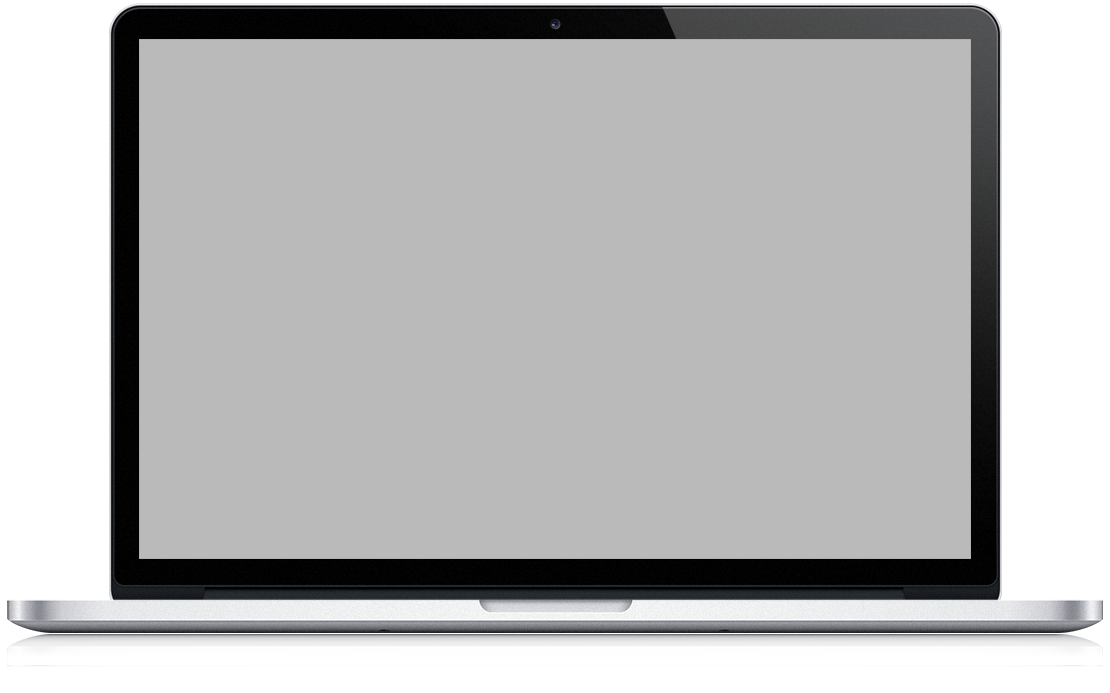
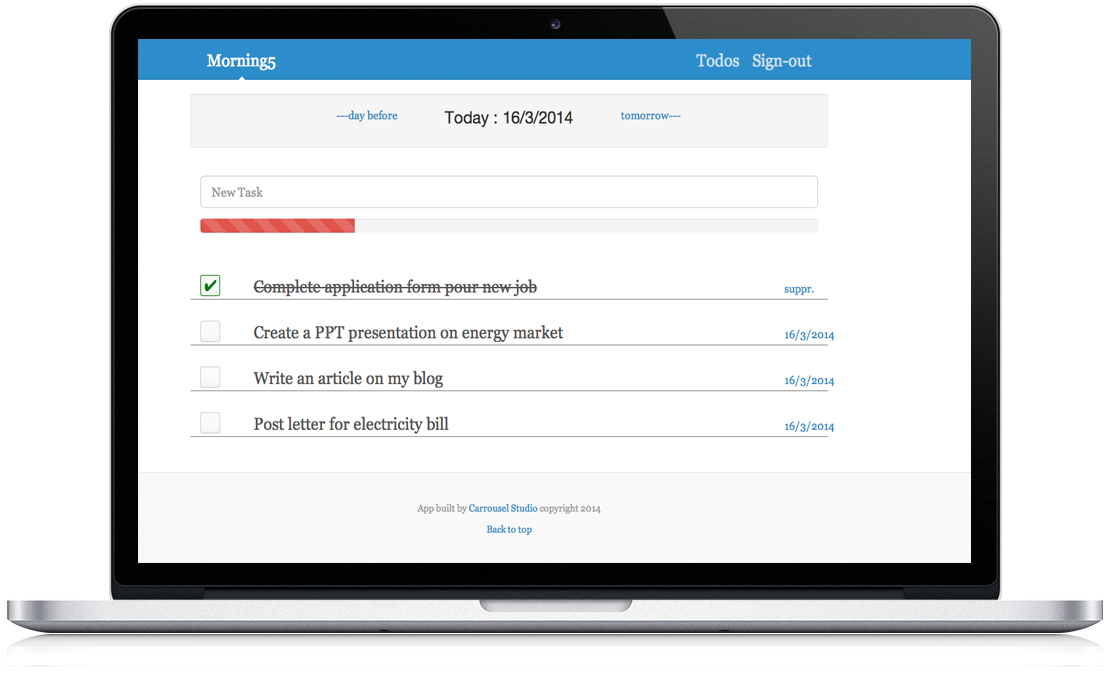
Dates fonctionnels

diff --git a/client/views/accueilTasks.js b/client/views/accueilTasks.js
@@ -4,27 +4,38 @@ var activateInput = function (input) {
   input.select();
 }
 Template.accueilTasks.helpers({
-	tasks: function() {
-		return Tasks.find();
-		
-  },
+	
 	editing:  function () {
   return Session.equals('editing_itemname', this._id);
-},
+  },
+  daybefore:  function () {
+   var yesterday = Session.get('previousDate');
+   
+  return yesterday;  
 
+ 
+  },
+  dayafter:  function () {
+  var tomorrow = Session.get('nextDate');
+   
+  return tomorrow;  
+  
+  
+  },
 	
 	
 	
 	today: function() {
-		var currentDate = new Date();
-		var currentYear = currentDate.getFullYear();
-		var currentMonth = currentDate.getMonth()+1;
-		var currentDay = currentDate.getDate();
-		return currentDay + '/' + currentMonth + '/' + currentYear;
+    
+	
+    return Session.get('viewDate');
+    
+    
 	},
+  
   advancement: function() {
-    var nbTaskDone = Tasks.find({doneTask:true}).count();
-    var nbTask = Tasks.find().count();
+    var nbTaskDone = Tasks.find({doneTask:true, submittedRealDate: Session.get('viewDate') }).count();
+    var nbTask = Tasks.find({submittedRealDate: Session.get('viewDate') }).count();
     return nbTaskDone/nbTask * 100; 
   }
 	
@@ -38,7 +49,17 @@ Template.accueilTasks.events ({
     //e.preventDefault();
     if (e.which === 13) {
       var url = template.find(".taskClass").value;
-			var taskProperties = { textTask : url};
+      
+      var creaDate = Session.get('viewDate');
+       var creaDate2 = new Date();
+    
+     creaDate2.setDate(parseInt(creaDate.split("/")[0]));
+      creaDate2.setMonth(parseInt(creaDate.split("/")[1]-1));
+      creaDate2.setYear(parseInt(creaDate.split("/")[2]));
+      var creaDateFull = creaDate2.getDate()+'/'+(creaDate2.getMonth()+1) +'/'+ creaDate2.getFullYear();
+      
+      
+      var taskProperties = { textTask : url, submittedRealDate : creaDateFull  };
 			Meteor.call('task', taskProperties, function(error, id) {});
 			}
 

diff --git a/client/helpers/router.js b/client/helpers/router.js
@@ -10,7 +10,45 @@ Router.map( function () {
     path: '/'
   });
   this.route('accueilTasks', {
-    path: '/todos'
+    path: '/todos/:date/:month/:year',
+    
+    data: function () {
+      var curD = this.params.date;
+      var curM = this.params.month;
+      var curY = this.params.year;
+       
+      var thedate = curD +'/'+ curM +'/'+ curY;
+     
+      
+      var newDate = new Date();
+      newDate.setDate(parseInt(curD));
+      newDate.setMonth(parseInt(curM)-1);
+      newDate.setYear(parseInt(curY));
+      
+      var prevDate = new Date();
+      prevDate.setDate(parseInt(curD)-1);
+      prevDate.setMonth(parseInt(curM));
+      prevDate.setYear(parseInt(curY));
+    
+      var nextDate = new Date();
+      nextDate.setDate(parseInt(curD)+1);
+    
+      nextDate.setMonth(parseInt(curM));
+      nextDate.setYear(parseInt(curY));
+      
+      console.log('new Date is ' + newDate);
+      console.log('Previous Date is ' + prevDate);
+      console.log('Next Date is ' + nextDate);
+      
+      Session.set('previousDate', prevDate.getDate()+'/'+prevDate.getMonth() + '/' +prevDate.getFullYear());
+      Session.set('nextDate', nextDate.getDate()+'/'+nextDate.getMonth() + '/' +nextDate.getFullYear());
+      Session.set('viewDate', thedate);
+      console.log(Session.get('viewDate'));
+      task = { tasks: Tasks.find({submittedRealDate: thedate}  )};
+      return task;
+    },
+
+    
   });
   
 });

diff --git a/client/views/accueilTasks.html b/client/views/accueilTasks.html
@@ -2,13 +2,13 @@
 	<div class="container ">
 		<div class="row dateClass well">
 			<div class="col-md-4">
-				<a href="" class="pull-right"> ---day before</a>
+        <a href="/todos/{{daybefore}}" class="pull-right"> ---day before</a>
 			</div>
 				<div class="col-md-4">
 					<h3 class="text-center">Today : {{ today }}</h3>
 			</div>
 				<div class="col-md-4">
-					<a href="" class="pull-left">tomorrow---</a>
+					<a href="/todos/{{dayafter}}" class="pull-left">tomorrow---</a>
 			</div>
 		</div>
 		<form role="form" class="todoForm">
@@ -76,7 +76,7 @@
                     </div>
                       <div class="col-md-1">
                   
-                        <a href="" class="destroy">suppr.</a>
+                        <a href="" class="destroy">{{submittedRealDate }}</a>
           
                           
                   </div>	

diff --git a/collections/tasks.js b/collections/tasks.js
@@ -18,15 +18,15 @@ Meteor.methods({
     // ensure the user is logged in
     if (!user)
       throw new Meteor.Error(401, "You need to login to create tasks");
-  	
+
     // pick out the whitelisted keys
-    var task = _.extend(_.pick(postAttributes, 'textTask'), {
+    var task = _.extend(_.pick(postAttributes, 'textTask', 'submittedRealDate'), {
       userId: user._id, 
       author: user.emails.adress, 
       doneTask: false,
       submitted: new Date().getTime(),
       modifiedStatus: new Date().getTime()
-      //temperature: templatevins[Session.get("compteur")]["Région"]
+      
     });
    
     var taskId = Tasks.insert(task);

diff --git a/client/layout.html b/client/layout.html
@@ -7,7 +7,7 @@
 					{{#if currentUser}}
 					
 					<a class="blog-nav-item text-right floatright" href="/sign-out">Sign-out</a>
-					<a class="blog-nav-item text-right floatright" href="{{pathFor 'accueilTasks'}}">Todos</a>
+          <a class="blog-nav-item text-right floatright" href="/todos/{{ date}}">Todos</a>
 					{{else}}
          	<a class="blog-nav-item text-right floatright" href="/sign-in">Sign-in</a>
 					<a class="blog-nav-item text-right floatright" href="/sign-up">Sign-up</a>

diff --git a/client/main.js b/client/main.js
@@ -1,1 +1,22 @@
 Meteor.subscribe('tasks');
+
+Meteor.startup(function () {
+  var curDate = new Date();
+ 
+		var currentYear = curDate.getFullYear();
+		var currentMonth = curDate.getMonth()+1;
+		var currentDay = curDate.getDate();
+
+  Session.set('date', currentDay+'/'+currentMonth+'/'+currentYear);
+  console.log(Session.get('date'));
+  
+  
+  
+  
+  
+  
+  });
+
+Handlebars.registerHelper('date',function(input){
+    return Session.get('date');
+});
